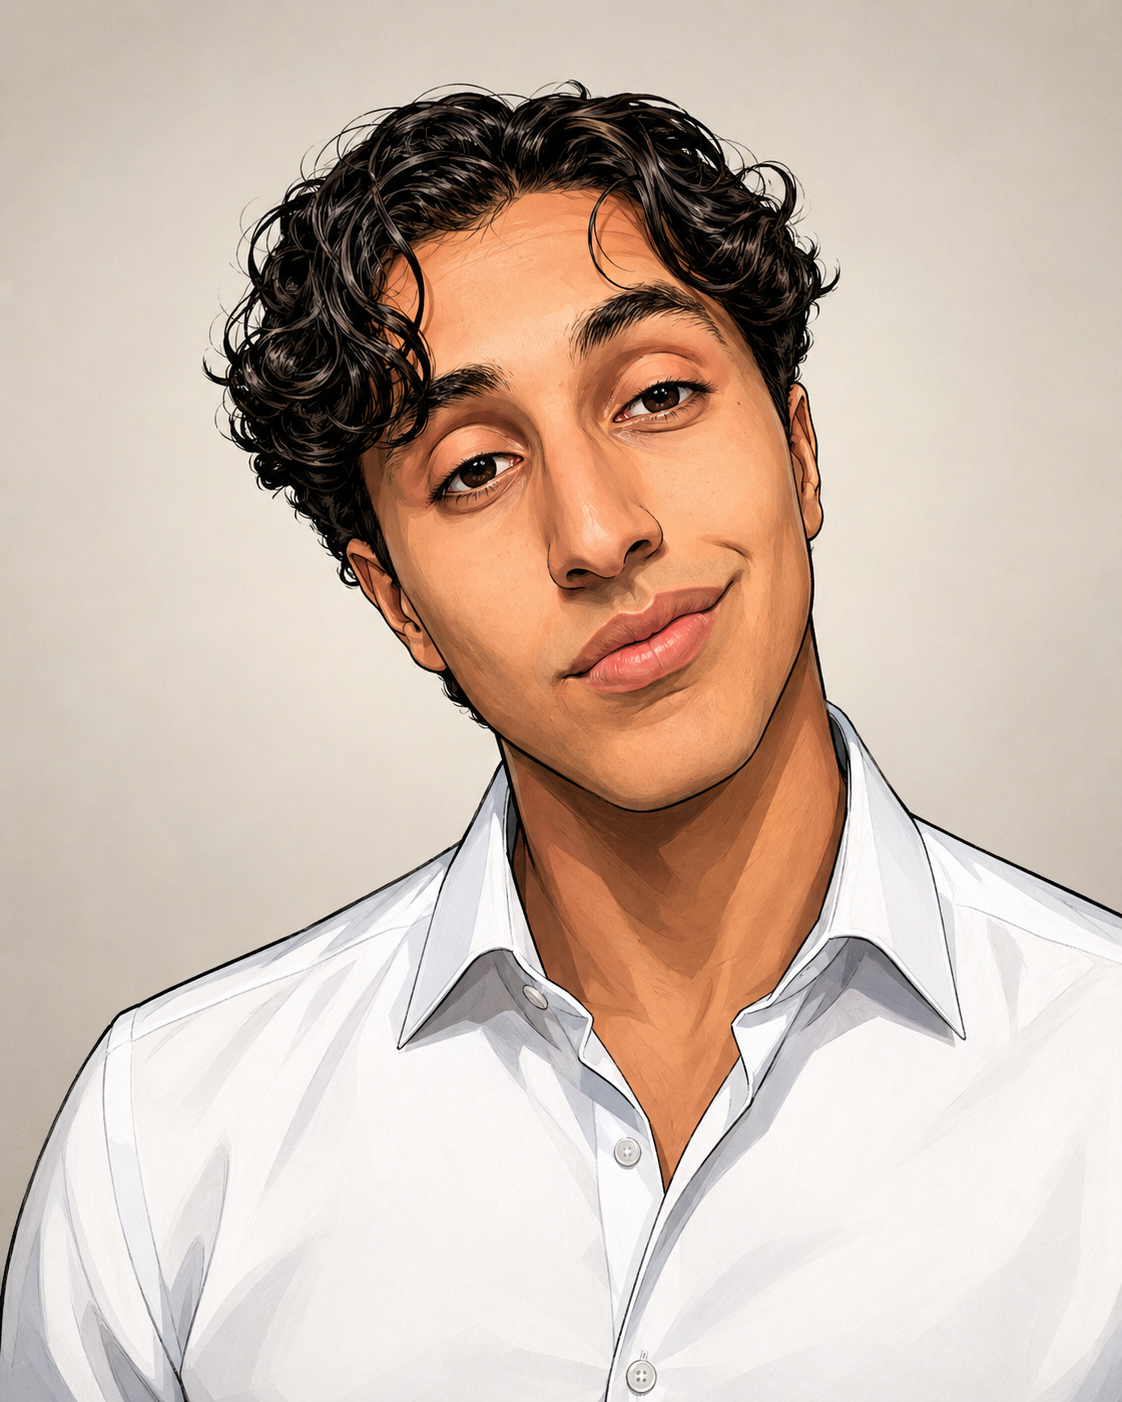
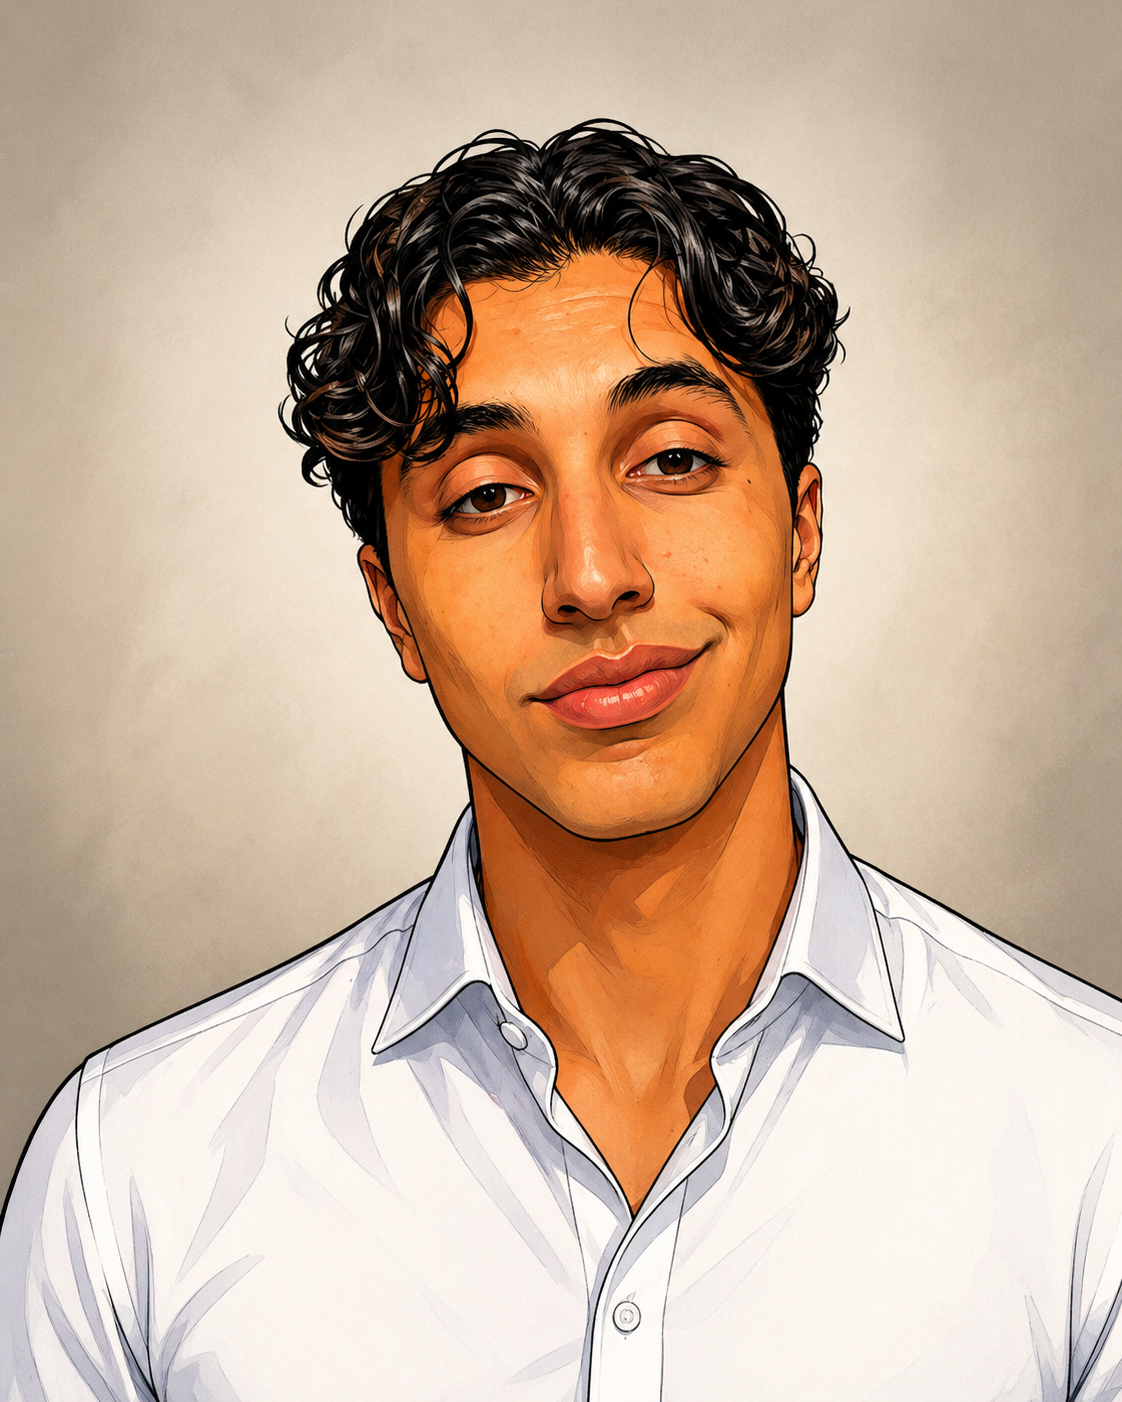
comics

diff --git a/src/styles.css b/src/styles.css
@@ -870,3 +870,147 @@ button {
     top: 28%;
   }
 }
+
+.site-shell {
+  position: relative;
+  overflow: hidden;
+  min-height: 100vh;
+}
+
+.comic-shell::before {
+  content: "";
+  position: fixed;
+  inset: 0;
+  pointer-events: none;
+  background:
+    radial-gradient(circle at 15% 20%, rgba(0, 0, 0, 0.03) 0 1px, transparent 1px 100%),
+    radial-gradient(circle at 85% 70%, rgba(0, 0, 0, 0.025) 0 1px, transparent 1px 100%);
+  background-size: 18px 18px, 22px 22px;
+  opacity: 0.35;
+  z-index: 0;
+}
+
+.comic-bg {
+  position: fixed;
+  pointer-events: none;
+  z-index: 0;
+  opacity: 0.18;
+}
+
+.comic-dots-left {
+  width: 240px;
+  height: 240px;
+  top: 120px;
+  left: -60px;
+  background-image: radial-gradient(#111 1.2px, transparent 1.2px);
+  background-size: 14px 14px;
+  mask-image: radial-gradient(circle at center, black 50%, transparent 100%);
+  -webkit-mask-image: radial-gradient(circle at center, black 50%, transparent 100%);
+}
+
+.comic-dots-right {
+  width: 280px;
+  height: 280px;
+  bottom: 120px;
+  right: -80px;
+  background-image: radial-gradient(#111 1.2px, transparent 1.2px);
+  background-size: 16px 16px;
+  mask-image: radial-gradient(circle at center, black 45%, transparent 100%);
+  -webkit-mask-image: radial-gradient(circle at center, black 45%, transparent 100%);
+}
+
+.comic-bubble {
+  position: fixed;
+  z-index: 1;
+  pointer-events: none;
+  background: rgba(255, 255, 255, 0.85);
+  border: 2px solid rgba(15, 23, 42, 0.16);
+  border-radius: 999px;
+  padding: 0.55rem 1rem;
+  font-size: 0.8rem;
+  font-weight: 700;
+  letter-spacing: 0.03em;
+  box-shadow: 0 8px 22px rgba(15, 23, 42, 0.08);
+  backdrop-filter: blur(6px);
+  color: #111827;
+}
+
+.comic-bubble::after {
+  content: "";
+  position: absolute;
+  bottom: -8px;
+  left: 24px;
+  width: 14px;
+  height: 14px;
+  background: rgba(255, 255, 255, 0.85);
+  border-right: 2px solid rgba(15, 23, 42, 0.16);
+  border-bottom: 2px solid rgba(15, 23, 42, 0.16);
+  transform: rotate(45deg);
+}
+
+.bubble-one {
+  top: 180px;
+  right: 6%;
+  transform: rotate(-5deg);
+}
+
+.bubble-two {
+  top: 520px;
+  left: 4%;
+  transform: rotate(6deg);
+}
+
+.comic-burst {
+  position: fixed;
+  z-index: 1;
+  pointer-events: none;
+  width: 120px;
+  height: 120px;
+  display: grid;
+  place-items: center;
+  font-size: 0.78rem;
+  font-weight: 800;
+  text-transform: uppercase;
+  letter-spacing: 0.05em;
+  color: #0f172a;
+  background: #fef3c7;
+  clip-path: polygon(
+    50% 0%,
+    60% 18%,
+    80% 8%,
+    74% 28%,
+    100% 30%,
+    80% 44%,
+    96% 62%,
+    72% 62%,
+    78% 90%,
+    54% 74%,
+    42% 100%,
+    34% 75%,
+    10% 88%,
+    20% 62%,
+    0% 58%,
+    24% 42%,
+    8% 22%,
+    32% 24%
+  );
+  border: 2px solid rgba(15, 23, 42, 0.16);
+  box-shadow: 0 12px 26px rgba(15, 23, 42, 0.08);
+  opacity: 0.85;
+}
+
+.burst-one {
+  bottom: 140px;
+  right: 8%;
+  transform: rotate(8deg);
+}
+
+.site-header,
+main,
+.site-footer {
+  position: relative;
+  z-index: 2;
+}
+
+
+

diff --git a/src/components/Layout.jsx b/src/components/Layout.jsx
@@ -86,10 +86,17 @@ function Footer() {
 
 export default function Layout({ children }) {
   return (
-    <>
+    <div className="site-shell comic-shell">
+      <div className="comic-bg comic-dots-left" aria-hidden="true" />
+      <div className="comic-bg comic-dots-right" aria-hidden="true" />
+      <div className="comic-bubble bubble-one" aria-hidden="true">Cloud</div>
+      <div className="comic-bubble bubble-two" aria-hidden="true">Kubernetes</div>
+      <div className="comic-burst burst-one" aria-hidden="true">Automation</div>
+
       <Header />
       <main>{children}</main>
       <Footer />
-    </>
+    </div>
   );
 }
+